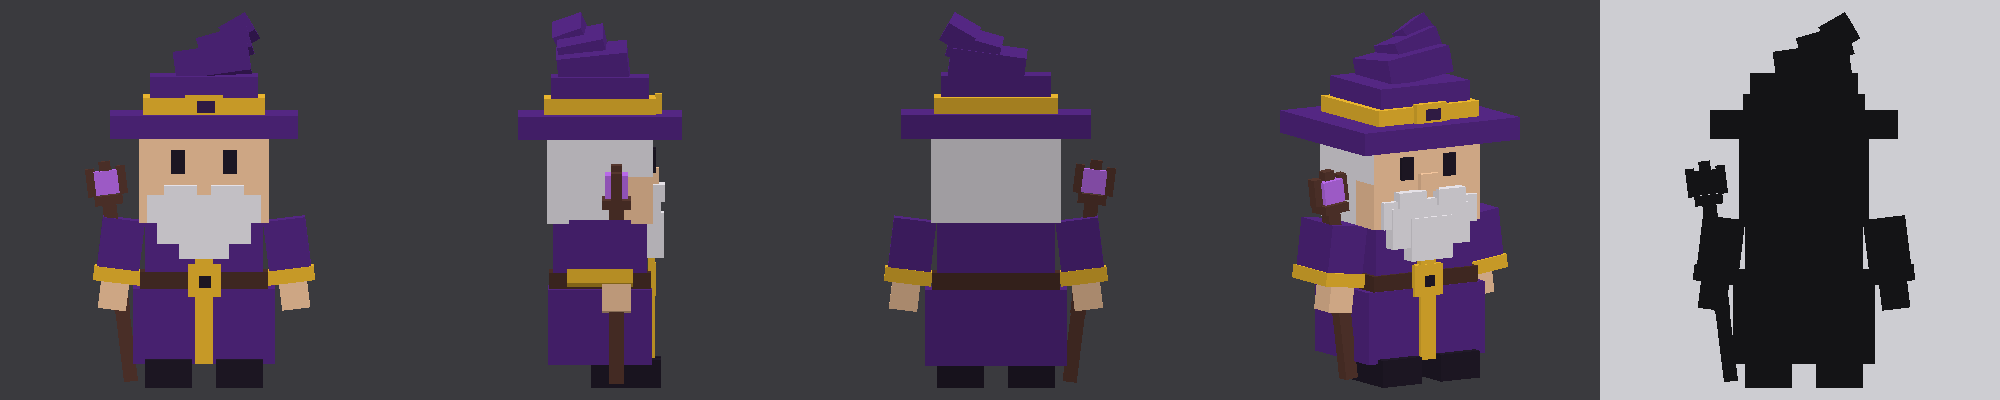
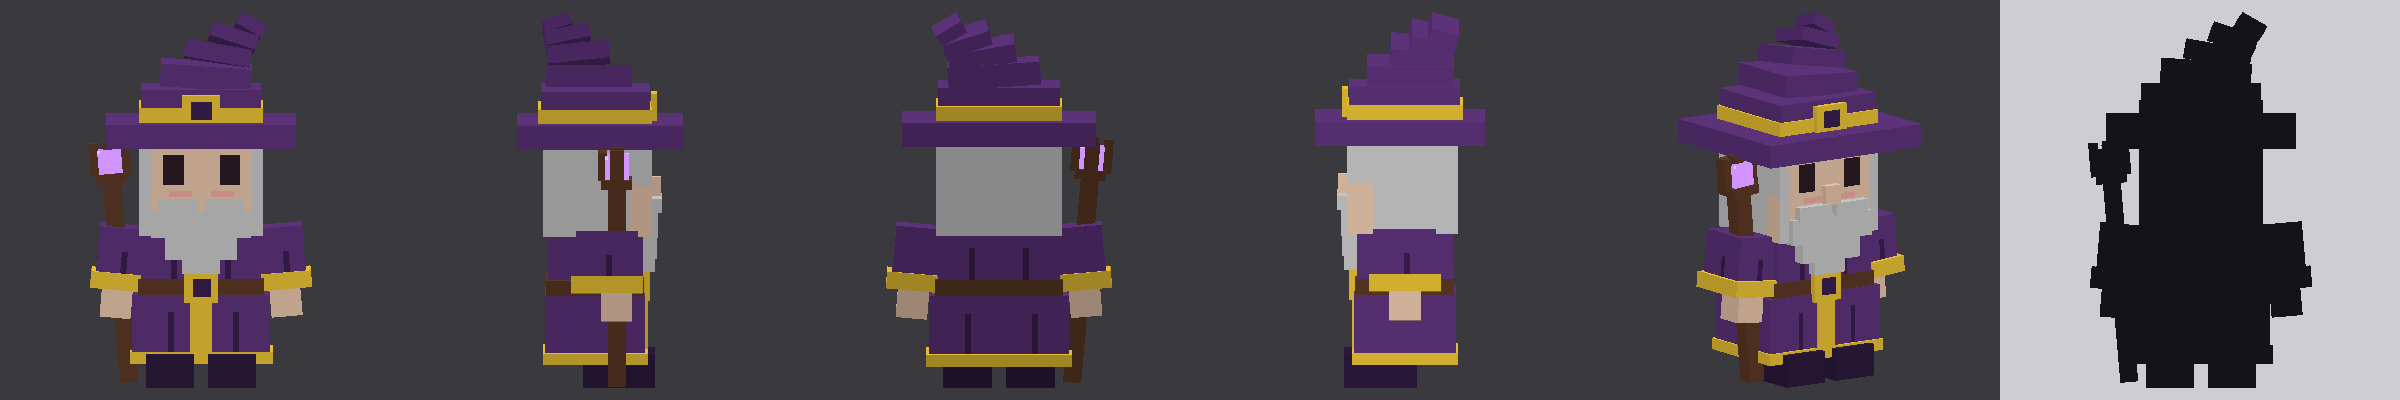
FluxDungeons: rebuild Oracle from the reference views (big hat and head, painted face, stepped beard, glowing orb)

diff --git a/FluxDungeons/assets/monstres/oracle.py b/FluxDungeons/assets/monstres/oracle.py
@@ -1,14 +1,16 @@
 #!/usr/bin/env python3
-"""Oracle: kindly cube wizard, guide and quest giver, STATIC Blockbench model (.bbmodel).
+"""Oracle: chibi cube wizard, guide and quest giver, STATIC Blockbench model (.bbmodel).
 
-Third version (2026-11-10), built from the owner's design sheet ("L'Oracle, modèle 3D en cubes"): a compact, chibi
-mage made only of boxes. 15 units tall (1 unit = 2 drawing pixels): feet 1, robe and body 6, head 4, hat 4. Purple
-robe with a gold front band, brown belt with a square gold buckle, gold cuffs, light grey beard in blocks, wide hat
-brim with a gold band and buckle, pointed top bending back and to one side, brown staff topped by a light purple orb
-held in a brown claw. Flat colours of the sheet only, matte, no emissive texture, no effect.
+Rebuilt from scratch on 2026-11-10 from the owner's design sheet ("L'Oracle, modèle 3D en cubes"), proportions read
+off the reference views rather than the text: big hat (about 40 % of the height, wide thick brim, gold band with a
+large square buckle, stepped cone whose tip bends back and to the viewer's right), big head (6 x 4 x 5) framed by grey
+hair, dark tall eyes, rosy cheeks, cube nose, stepped grey beard that falls on the chest, short wide robe with a gold
+hem, gold front band, brown belt and gold buckle, wide sleeves with gold cuffs, big hands, dark feet, brown staff in
+the character's right hand with a glowing light purple orb held in a brown claw at eye level.
 
 Usage: oracle.py [output folder] [--apercu <sheet.png>]
 Front faces north (-z), the character's right side is +x, origin between the feet, ground at y = 0.
+Built in units of the sheet (1 unit = 2 drawing pixels), 15 units high.
 """
 import json
 import os
@@ -22,21 +24,21 @@ from golem_fonderie import rot  # noqa: E402
 
 IDENT = "oracle"
 NS = uuid.UUID("5b2d9e00-0000-4000-8000-00000000a7c1")
-HEIGHT = 3.2          # blocks, hat included (same in-game size as the previous Oracle)
-U = 2.0               # drawing pixels per unit of the design sheet
-STAFF_SIDE = 1        # +1: staff in the character's right hand (as drawn on the sheet), -1: left hand
-TIP_SIDE = -1         # hat tip bends towards -x (the viewer's right on the front view, as drawn), +1 the other way
+HEIGHT = 3.2          # blocks in game, hat included
+U = 2.0               # drawing pixels per unit of the sheet
 
 # --------------------------------------------------------------------------- sheet palette
-PURPLE = hx("#542783")
-PURPLE_DARK = hx("#38204F")
-PURPLE_LIGHT = hx("#B86AE8")
-GOLD = hx("#E9B52F")
-SKIN = hx("#F2C49C")
-BEARD = hx("#E5E1E7")
-BROWN = hx("#56372E")
-BELT = hx("#4A2F27")          # a touch darker than the staff, so belt and staff do not read as one material
-DARK = hx("#211A29")          # eyes and shoes
+PURPLE = hx("#5C3278")
+PURPLE_DARK = hx("#3A1F4E")
+GOLD = hx("#E5BE34")
+GREY = hx("#C4C4C4")
+SKIN = hx("#E2C0A7")
+BROWN = hx("#5A3825")
+ORB = hx("#D194FF")
+ORB_LIGHT = hx("#E8C4FF")
+FEET = hx("#2C1A3B")          # darker than the robe details, as on the sheet
+EYE = hx("#2B1D24")
+CHEEK = hx("#E9A79C")
 
 
 def flat(color):
@@ -45,12 +47,31 @@ def flat(color):
     return f
 
 
+def robe(w, h, r, face):
+    """Robe (density 2): purple, two dark folds on the front and back."""
+    px = [[PURPLE] * w for _ in range(h)]
+    if face in ("north", "south") and w >= 8:
+        for x in (w // 4, w - 1 - w // 4):
+            for y in range(h // 3, h):
+                px[y][x] = PURPLE_DARK
+    return px
+
+
+def sleeve(w, h, r, face):
+    """Sleeve (density 2): purple, a dark fold down the lower half of the outer and front faces."""
+    px = [[PURPLE] * w for _ in range(h)]
+    if face in ("north", "east", "west") and w >= 3:
+        for y in range(h // 2, h):
+            px[y][w // 2] = PURPLE_DARK
+    return px
+
+
 def buckle(center):
     def f(w, h, r, face):
-        """Square gold buckle, dark centre on the front face only."""
+        """Square gold buckle with a dark centre on its front face."""
         px = [[GOLD] * w for _ in range(h)]
         if face == "north":
-            bx, by = max(1, w // 3), max(1, h // 3)
+            bx, by = max(1, w // 4), max(1, h // 4)
             for y in range(by, h - by):
                 for x in range(bx, w - bx):
                     px[y][x] = center
@@ -58,37 +79,69 @@ def buckle(center):
     return f
 
 
+HEAD_W, HEAD_D = 5.2, 4.6     # head size in units (height 4)
+
+
 def head(w, h, r, face):
-    """Skin face; grey hair on the back, and on the sides except a skin band at the front of the lower half."""
-    if face in ("north", "down"):
-        return [[SKIN] * w for _ in range(h)]
-    if face in ("south", "up"):
-        return [[BEARD] * w for _ in range(h)]
-    front = (lambda x: x >= w * 0.6) if face == "east" else (lambda x: x < w * 0.4)    # east u runs back to front
-    return [[SKIN if y >= h * 0.45 and front(x) else BEARD for x in range(w)] for y in range(h)]
+    """Head, drawn in units of the sheet. Front: skin framed by grey hair, tall dark eyes, rosy cheeks.
+    Sides: grey hair, skin in the lower front corner. Back, top, bottom: grey hair."""
+    if face == "north":
+        k = w / HEAD_W                                        # texels per unit
+        mid = HEAD_W / 2
+
+        def rect(x0, x1, y0, y1, col):                        # x from the face's left edge, y from its top
+            for y in range(round(y0 * k), round(y1 * k)):
+                for x in range(round(x0 * k), round(x1 * k)):
+                    if 0 <= x < w and 0 <= y < h:
+                        px[y][x] = col
+        px = [[SKIN] * w for _ in range(h)]
+        rect(0, 0.55, 0, 4, GREY)                             # hair framing the face
+        rect(HEAD_W - 0.55, HEAD_W, 0, 4, GREY)
+        rect(0, HEAD_W, 0, 0.35, GREY)                        # hair line under the brim
+        for c in (mid - 1.15, mid + 1.15):
+            rect(c - 0.45, c + 0.45, 0.6, 1.85, EYE)          # tall eyes, 0.9 x 1.25
+            rect(c - 0.5 + (0.3 if c < mid else -0.3), c + 0.5 + (0.3 if c < mid else -0.3), 2.05, 2.4, CHEEK)
+        return px
+    if face in ("east", "west"):
+        k = w / HEAD_D
+        front = (lambda x: x >= w - 1.1 * k) if face == "east" else (lambda x: x < 1.1 * k)  # east u runs back to front
+        return [[SKIN if y >= h * 0.45 and front(x) else GREY for x in range(w)] for y in range(h)]
+    return [[GREY] * w for _ in range(h)]
+
+
+def orb(w, h, r, face):
+    px = [[ORB] * w for _ in range(h)]
+    if face != "down" and w >= 2:
+        px[0][0] = ORB_LIGHT
+    return px
 
 
 MATS = {
-    "purple": flat(PURPLE), "purple_dark": flat(PURPLE_DARK), "gold": flat(GOLD), "skin": flat(SKIN),
-    "beard": flat(BEARD), "brown": flat(BROWN), "belt": flat(BELT), "dark": flat(DARK), "orb": flat(PURPLE_LIGHT),
-    "head": head, "belt_buckle": (buckle(DARK), 2), "hat_buckle": (buckle(PURPLE_DARK), 2),
+    "purple": flat(PURPLE), "gold": flat(GOLD), "grey": flat(GREY), "skin": flat(SKIN), "brown": flat(BROWN),
+    "feet": flat(FEET), "robe": (robe, 2), "sleeve": (sleeve, 2), "head": (head, 4),
+    "belt_buckle": (buckle(PURPLE_DARK), 4), "hat_buckle": (buckle(PURPLE_DARK), 4),
 }
+GLOW_MATS = {"orb": (orb, 4)}
 
-# --------------------------------------------------------------------------- bones (units)
-S, T = STAFF_SIDE, TIP_SIDE
-HAND = (3.55 * S, 3.9, -0.7)
+# --------------------------------------------------------------------------- layout (units, y up)
+FEET_TOP = 1.0
+ROBE_TOP = 6.4          # shoulders
+HEAD = (6.4, 10.4)      # 6 x 4 x 5
+BRIM = (10.15, 11.15)   # thick brim, overhangs the face
+HAND = (3.3, 3.45, -0.9)  # right hand (holds the staff), centre
+
 GROUPS = {
     "Root": ((0, 0, 0), None),
-    "Body": ((0, 1, 0), "Root"),
-    "Head": ((0, 7, 0), "Body"),
-    "Beard": ((0, 7.6, -2.3), "Head"),
-    "Hat": ((0, 11, 0), "Head"),
-    "Right_Arm": ((2.6, 7, 0), "Body"),
-    "Left_Arm": ((-2.6, 7, 0), "Body"),
-    "Staff": (HAND, "Right_Arm" if S > 0 else "Left_Arm"),
-    "Orb": ((HAND[0], 8.5, HAND[2]), "Staff"),
-    "Right_Leg": ((1.5, 1, 0), "Root"),
-    "Left_Leg": ((-1.5, 1, 0), "Root"),
+    "Body": ((0, FEET_TOP, 0), "Root"),
+    "Head": ((0, HEAD[0], 0), "Body"),
+    "Beard": ((0, 7.6, -2.4), "Head"),
+    "Hat": ((0, BRIM[0], 0), "Head"),
+    "Right_Arm": ((2.5, ROBE_TOP, 0), "Body"),
+    "Left_Arm": ((-2.5, ROBE_TOP, 0), "Body"),
+    "Staff": (HAND, "Right_Arm"),
+    "glow_orb": ((HAND[0], 9.45, HAND[2]), "Staff"),
+    "Right_Leg": ((1.3, FEET_TOP, 0), "Root"),
+    "Left_Leg": ((-1.3, FEET_TOP, 0), "Root"),
 }
 
 
@@ -97,76 +150,75 @@ def parts():
     P = []
 
     def add(g, name, c, size, r, mat):
-        P.append((g, name, c, size, r, mat))
+        P.append((g, name, list(c), list(size), r, mat))
 
     def box(g, name, x0, x1, y0, y1, z0, z1, mat, r=(0, 0, 0)):
         add(g, name, ((x0 + x1) / 2, (y0 + y1) / 2, (z0 + z1) / 2), (x1 - x0, y1 - y0, z1 - z0), r, mat)
 
-    # ---------------------------------------------------------------- feet: small dark blocks peeking out under the robe
+    # ---------------------------------------------------------------- feet
     for s, side in ((1, "Right"), (-1, "Left")):
-        box(f"{side}_Leg", "pied", 1.5 * s - 1, 1.5 * s + 1, 0, 1.2, -2.6, 0.4, "dark")
+        box(f"{side}_Leg", "pied", 1.3 * s - 1, 1.3 * s + 1, 0, FEET_TOP + 0.4, -2.5, 0.5, "feet")
 
-    # ---------------------------------------------------------------- robe: wider at the bottom, belt, torso, gold band
-    box("Body", "robe_bas", -3, 3, 1, 4.2, -2.2, 2.2, "purple")
-    box("Body", "ceinture", -2.7, 2.7, 4.2, 4.9, -2.15, 2.15, "belt")
-    box("Body", "boucle_ceinture", -0.7, 0.7, 3.85, 5.25, -2.4, -2.1, "belt_buckle")
-    box("Body", "torse", -2.5, 2.5, 4.9, 7, -2, 2, "purple")
-    box("Body", "bande_doree", -0.4, 0.4, 1, 6.6, -2.35, -2.05, "gold")
+    # ---------------------------------------------------------------- robe: gold hem, skirt, belt + buckle, chest, band
+    box("Body", "ourlet", -3, 3, FEET_TOP, FEET_TOP + 0.5, -2.2, 2.2, "gold")
+    box("Body", "robe_bas", -2.9, 2.9, FEET_TOP + 0.5, 3.9, -2.1, 2.1, "robe")
+    box("Body", "ceinture", -2.65, 2.65, 3.9, 4.55, -2.05, 2.05, "brown")
+    box("Body", "boucle_ceinture", -0.7, 0.7, 3.55, 4.95, -2.3, -2.0, "belt_buckle")
+    box("Body", "torse", -2.5, 2.5, 4.55, ROBE_TOP, -2, 2, "robe")
+    box("Body", "bande_doree", -0.45, 0.45, FEET_TOP + 0.5, ROBE_TOP, -2.2, -1.95, "gold")
 
-    # ---------------------------------------------------------------- arms: short thick sleeves, slightly out, gold cuffs
+    # ---------------------------------------------------------------- arms: wide sleeves, gold cuffs, big hands
     for s, side in ((1, "Right"), (-1, "Left")):
         g = f"{side}_Arm"
-        tilt = (0, 0, 7 * s)                       # bottom of the sleeve moves outwards
-        place = attach((2.6 * s, 7, 0), rot(*tilt))
-        for name, x0, x1, y0, y1, z0, z1, mat in (
-                ("manche", 2.5, 4.3, 4.9, 7, -1.3, 1.3, "purple"),
-                ("poignet", 2.4, 4.4, 4.3, 4.9, -1.4, 1.4, "gold")):
-            c, M = place((s * (x0 + x1) / 2, (y0 + y1) / 2, (z0 + z1) / 2), (0, 0, 0))
-            add(g, name, c, (x1 - x0, y1 - y0, z1 - z0), M, mat)
-        hand_z = HAND[2] if s == S else 0          # the hand holding the staff comes slightly forward
-        c, M = place((3.45 * s, 3.75, hand_z), (0, 0, 0))
-        add(g, "main", c, (1.2, 1.2, 1.2), M, "skin")
+        place = attach((2.5 * s, ROBE_TOP, 0), rot(0, 0, 5 * s))           # the sleeve opens slightly outwards
+        holding = s == 1
+        zc = -0.5 if holding else 0                                         # the staff arm comes a bit forward
+        for name, y0, y1, w, d, mat in (("manche", 4.6, ROBE_TOP + 0.2, 1.9, 2.6, "sleeve"),
+                                        ("poignet", 4.0, 4.7, 2.3, 3.0, "gold")):     # bell sleeve
+            c, M = place((s * 3.3, (y0 + y1) / 2, zc), (0, 0, 0))
+            add(g, name, c, (w, y1 - y0, d), M, mat)
+        c, M = place((s * 3.3, HAND[1], HAND[2] if holding else 0), (0, 0, 0))
+        add(g, "main", c, (1.3, 1.3, 1.3), M, "skin")
 
-    # ---------------------------------------------------------------- head: compact block, two eyes, nose
-    box("Head", "tete", -2.75, 2.75, 7, 11, -2.25, 2.25, "head")
-    for s, side in ((1, "droit"), (-1, "gauche")):
-        box("Head", f"oeil_{side}", 1.1 * s - 0.3, 1.1 * s + 0.3, 9.1, 10.1, -2.4, -2.2, "dark")
-    box("Head", "nez", -0.45, 0.45, 8.5, 9.3, -2.5, -2.2, "skin")
+    # ---------------------------------------------------------------- head: face painted, cube nose
+    box("Head", "tete", -HEAD_W / 2, HEAD_W / 2, HEAD[0], HEAD[1], -2.4, HEAD_D - 2.4, "head")
+    box("Head", "nez", -0.4, 0.4, 7.9, 8.75, -2.75, -2.35, "skin")
 
-    # ---------------------------------------------------------------- beard: moustache, base, two short sides, long middle
+    # ---------------------------------------------------------------- beard: moustache, then steps down to the chest
     for s, side in ((1, "droite"), (-1, "gauche")):
-        box("Beard", f"moustache_{side}", 0.3 * s if s > 0 else -1.7, 1.7 if s > 0 else -0.3, 7.9, 8.6, -2.75, -2.25,
-            "beard")
-        box("Beard", f"barbe_{side}", 1.2 * s - 0.8, 1.2 * s + 0.8, 6.1, 7.9, -2.6, -1.9, "beard")
-    box("Beard", "barbe_base", -2.4, 2.4, 7.0, 8.2, -2.55, -1.9, "beard")
-    box("Beard", "barbe_centre", -1.05, 1.05, 5.5, 7.4, -2.7, -2.0, "beard")
+        x0, x1 = (0.15, 1.8) if s > 0 else (-1.8, -0.15)
+        box("Beard", f"moustache_{side}", x0, x1, 7.35, 7.95, -2.8, -2.3, "grey")
+    box("Beard", "barbe_menton", -2.1, 2.1, 6.3, 7.4, -2.65, -1.9, "grey")
+    box("Beard", "barbe_milieu", -1.5, 1.5, 5.4, 6.4, -2.6, -1.95, "grey")
+    box("Beard", "barbe_pointe", -0.8, 0.8, 4.8, 5.5, -2.5, -2.0, "grey")
 
-    # ---------------------------------------------------------------- hat: wide flat brim, gold band and buckle, bent tip
-    box("Hat", "bord", -4, 4, 10.6, 11.6, -3.5, 3.5, "purple")
-    box("Hat", "bande", -2.6, 2.6, 11.6, 12.3, -2.4, 2.4, "gold")
-    box("Hat", "boucle", -0.8, 0.8, 11.45, 12.45, -2.65, -2.35, "hat_buckle")
-    box("Hat", "cone_bas", -2.3, 2.3, 12.3, 13.2, -2.1, 2.1, "purple")
-    # the tip climbs, shifts to one side and back, each block a little more tilted (sheet: 0 / 10-20 / 30 degrees)
-    for name, cx, cy, cz, w, h, d, ax, az in (
-            ("cone_milieu", 0.35, 13.7, 0.3, 3.2, 1.2, 3.0, 6, 8),
-            ("cone_haut", 0.9, 14.4, 0.75, 2.2, 1.0, 2.0, 12, 16),
-            ("pointe", 1.5, 14.95, 1.25, 1.3, 0.9, 1.3, 22, 30)):
-        add("Hat", name, (cx * T, cy, cz), (w, h, d), (ax, 0, az * T), "purple")
+    # ---------------------------------------------------------------- hat: thick 8 x 7 brim, band + buckle, stepped cone
+    box("Hat", "bord", -4, 4, BRIM[0], BRIM[1], -3.7, 3.3, "purple")
+    box("Hat", "cone_bas", -2.5, 2.5, BRIM[1], 12.5, -2.3, 2.3, "purple")
+    box("Hat", "bande", -2.6, 2.6, BRIM[1], BRIM[1] + 0.6, -2.4, 2.4, "gold")
+    box("Hat", "boucle", -0.8, 0.8, BRIM[1] - 0.05, BRIM[1] + 1.15, -2.6, -2.35, "hat_buckle")
+    # the cone narrows step by step and drifts back and to the viewer's right (-x), the last blocks tilt with it
+    for name, cx, y0, y1, w, d, cz, ax, az in (
+            ("cone_2", -0.2, 12.5, 13.45, 3.8, 3.6, 0.25, 0, 4),
+            ("cone_3", -0.7, 13.45, 14.2, 2.8, 2.6, 0.7, 6, 10),
+            ("cone_4", -1.35, 14.15, 14.75, 2.0, 1.9, 1.15, 12, 18),
+            ("pointe", -2.05, 14.6, 15.15, 1.2, 1.2, 1.6, 18, 30)):
+        add("Hat", name, (cx, (y0 + y1) / 2, cz), (w, y1 - y0, d), (ax, 0, az), "purple")
 
-    # ---------------------------------------------------------------- staff: three brown blocks, orb in a brown claw
-    g = "Staff"
-    lean = attach(HAND, rot(0, 0, -7 * S))          # top of the staff leans outwards
+    # ---------------------------------------------------------------- staff: two brown blocks, orb in a brown claw
+    lean = attach(HAND, rot(0, 0, -5))              # top leans slightly outwards
     x, z = HAND[0], HAND[2]
-    for name, y0, y1, w in (("baton_bas", 0.2, 3.1, 0.6), ("baton_milieu", 3.1, 5.8, 0.66), ("baton_haut", 5.8, 7.9, 0.6)):
+    for name, y0, y1, w in (("baton_bas", 0.15, 4.4, 0.75), ("baton_haut", 4.4, 8.55, 0.75)):
         c, M = lean((x, (y0 + y1) / 2, z), (0, 0, 0))
-        add(g, name, c, (w, y1 - y0, w), M, "brown")
-    for name, dx, dy, size, mat, grp in (
-            ("griffe_base", 0, 7.95, (1.2, 0.4, 1.2), "brown", "Staff"),
-            ("orbe", 0, 8.7, (1.0, 1.0, 1.0), "orb", "Orb"),
-            ("griffe_droite", 0.65, 8.75, (0.4, 1.2, 0.5), "brown", "Staff"),
-            ("griffe_gauche", -0.65, 8.75, (0.4, 1.2, 0.5), "brown", "Staff"),
-            ("griffe_haut", 0, 9.4, (0.5, 0.4, 0.5), "brown", "Staff")):
-        c, M = lean((x + dx, dy, z), (0, 0, 0))
+        add("Staff", name, c, (w, y1 - y0, w), M, "brown")
+    for name, dx, dy, dz, size, mat, grp in (
+            ("griffe_base", 0, 8.75, 0, (1.3, 0.4, 1.3), "brown", "Staff"),
+            ("orbe", 0, 9.45, 0, (1.0, 1.0, 1.0), "orb", "glow_orb"),
+            ("griffe_droite", 0.65, 9.55, 0, (0.4, 1.4, 0.6), "brown", "Staff"),
+            ("griffe_gauche", -0.65, 9.55, 0, (0.4, 1.4, 0.6), "brown", "Staff"),
+            ("griffe_arriere", 0, 9.5, 0.6, (0.6, 1.2, 0.35), "brown", "Staff"),
+            ("griffe_haut", 0, 10.1, 0, (0.5, 0.4, 0.5), "brown", "Staff")):
+        c, M = lean((x + dx, dy, z + dz), (0, 0, 0))
         add(grp, name, c, size, M, mat)
     return P
 
@@ -189,13 +241,14 @@ if __name__ == "__main__":
     P0, G0 = drawn()
     _, _, raw = ground(P0, G0, center=False)
     P, groups, dims = ground(P0, G0, scale=HEIGHT / raw[1], center=False)   # origin between the feet
-    uv, atlases, sizes = bake(P, MATS, {})
+    uv, atlases, sizes = bake(P, MATS, GLOW_MATS)
     data = export(IDENT, NS, P, groups, uv, atlases, sizes)
     print(f"{len(P)} cubes ; {dims[0]:.2f} x {dims[1]:.2f} x {dims[2]:.2f} blocks (w x h x d) ; "
-          f"{raw[0] * 16 / U:.1f} x {raw[1] * 16 / U:.1f} x {raw[2] * 16 / U:.1f} units ; texture {sizes[0]}")
+          f"{raw[0] * 16 / U:.1f} x {raw[1] * 16 / U:.1f} x {raw[2] * 16 / U:.1f} units ; textures {sizes[0]}, {sizes[1]}")
     path = os.path.join(out, IDENT + ".bbmodel")
     with open(path, "w", encoding="utf-8") as f:
         json.dump(data, f, ensure_ascii=False)
     print("written", path)
     if prev:
-        apercu(data, atlases, sizes, prev, set(), views=((0, 2), (90, 2), (180, 2), (32, 10)), size=400)
+        apercu(data, atlases, sizes, prev, {ORB, ORB_LIGHT}, views=((0, 4), (90, 4), (180, 4), (-90, 4), (35, 12)),
+               size=400)
